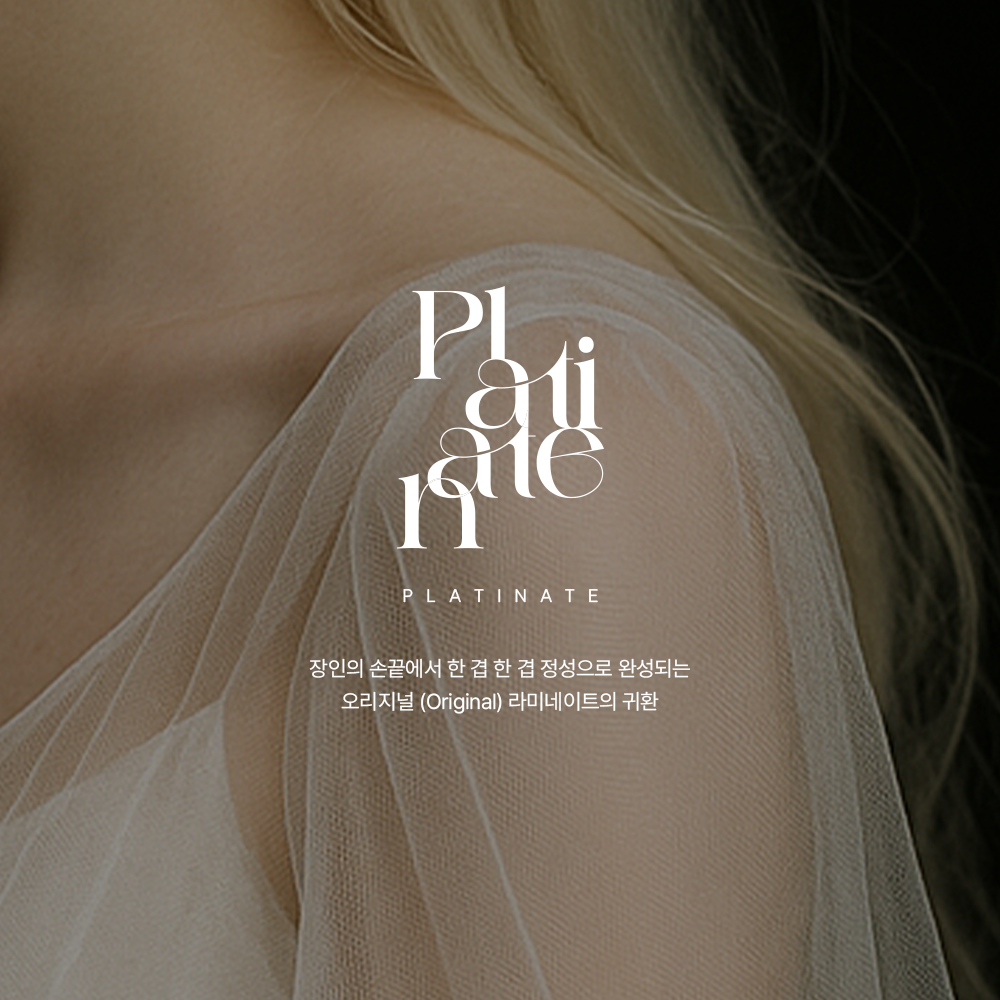
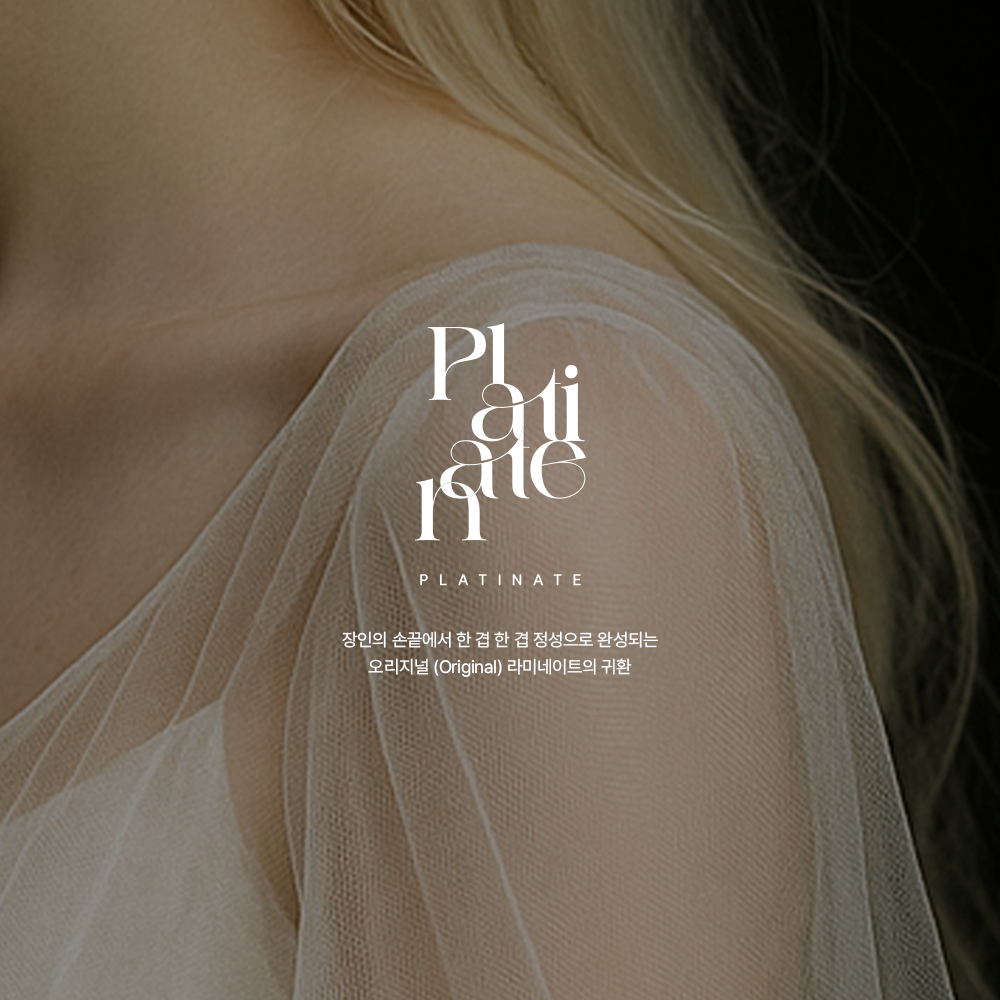
수정

Changed region(s): [[0.403, 0.279, 0.62, 0.558], [0.31, 0.558, 0.682, 0.713]]

diff --git a/index.html b/index.html
@@ -504,7 +504,7 @@
 
     <div class="column lg-6 stack-on-1100 section-header__secondary">
       <p class="desc">
-       
+       상세페이지 디자인
       </p>
     </div>
   </div> <!-- end section-header -->
@@ -548,7 +548,7 @@
         <article class="brick brick--double entry">
           <a href="#modal-dp-03" class="entry__link">
             <div class="entry__thumb">
-              <img src="images/folio/detail3/1.gif" alt="상세페이지 작업 03">
+              <img src="images/folio/detail3/7.gif" alt="상세페이지 작업 03">
             </div>
             <div class="entry__info">
               <div class="entry__cat"></div>
@@ -1024,10 +1024,13 @@
           <a href="#modal-dp-plati" class="entry__link">
             <div class="entry__thumb">
              
-              <img src="images/folio/plati/Plati.png" alt="상세페이지 작업 01">
+              <img src="images/folio/plati/plati3.png" alt="상세페이지 작업 01">
                <!-- <img src="images/folio/detail1.gif" alt="상세페이지 작업 01"> -->
-         
             </div>
+                  <div class="entry__info">
+                                            <div class="entry__cat">플래티네이트</div>
+                                            <h4 class="entry__title">로고 디자인</h4>
+                                        </div>
             <div class="entry__info">
               <div class="entry__cat"></div>
               <h4 class="entry__title"></h4>
@@ -1149,7 +1152,7 @@
                                 </ul>
                             </div>
                 
-                            <a href="https://blog.naver.com/PostView.naver?blogId=u0_20&Redirect=View&logNo=223396382522&categoryNo=27&isAfterWrite=true&isAfterUpdateOnly=true" class="modal-popup__details">Project link</a>
+                         
                         </div>
                     </div> <!-- end modal -->
                     <div id="modal-08" hidden>
@@ -1268,6 +1271,82 @@
 
                                     
             </section> <!-- end s-services -->
+
+    
+        </section>  <!-- end content -->
+
+          
+
+
+<!-- 전체 페이지 슬라이드 -->
+
+<!-- 전체페이지 슬라이드 닫힘 -->
+
+           
+
+      
+
+<!-- 기타디자인 -->
+
+<section id="other" class="s-folio2 target-section">
+
+    <div class="row section-header light-on-dark" data-num="">
+        <h3 class="column lg-12 section-header__pretitle text-pretitle">other Works</h3>
+        <div class="column lg stack-on-1100 section-header__primary">
+            <h2 class="title text-display-1">
+        
+            </h2>
+           
+        </div>
+      
+    </div> <!-- end section-header -->
+
+    <div id="bricks" class="row bricks">
+        <div class="column lg-12 masonry">
+            <div class="bricks-wrapper">
+
+                <article class="brick2 brick--double entry">
+                    <div class="entry__link2">
+                        <div class="entry__thumb">
+                            <img src="images/folio/gundam.png" alt="">
+                        </div>
+                        <div class="entry__info">
+                            <div class="entry__cat">건담베이스</div>
+                            <h4 class="entry__title">POP디자인</h4>
+                        </div>
+                    </div>
+                </article> <!-- entry -->
+               
+                <article class="brick2 brick--double entry">
+                    <div class="entry__link2">
+                        <div class="entry__thumb">
+                            <img src="images/folio/wabbler.png" alt="">
+                        </div>
+                        <div class="entry__info">
+                            <div class="entry__cat">건담베이스</div>
+                            <h4 class="entry__title">와블러 디자인</h4>
+                        </div>
+                    </div>
+                </article> <!-- entry -->
+                <article class="brick2 brick--double entry">
+                    <div class="entry__link2">
+                        <div class="entry__thumb">
+                            <img src="images/folio/flex.png" alt="">
+                        </div>
+                        <div class="entry__info">
+                            <div class="entry__cat">이벤트 프로모션</div>
+                            <h4 class="entry__title">개인 작업물</h4>
+                        </div>
+                    </div>
+                </article> <!-- entry -->
+               
+
+
+            </div> <!-- end bricks-wrapper -->
+            
+        </div> <!-- end masonry -->
+    </div> <!-- end bricks -->
+    </section>
 
             <section id="businesscard" class="s-testimonials target-section">
 
@@ -1451,81 +1530,6 @@
                 </div> <!-- end s-testimonials__content -->
     
             </section> <!-- end testimonials -->
-    
-        </section>  <!-- end content -->
-
-          
-
-
-<!-- 전체 페이지 슬라이드 -->
-
-<!-- 전체페이지 슬라이드 닫힘 -->
-
-           
-
-      
-
-<!-- 기타디자인 -->
-
-<section id="other" class="s-folio2 target-section">
-
-    <div class="row section-header light-on-dark" data-num="">
-        <h3 class="column lg-12 section-header__pretitle text-pretitle">other Works</h3>
-        <div class="column lg stack-on-1100 section-header__primary">
-            <h2 class="title text-display-1">
-        
-            </h2>
-           
-        </div>
-      
-    </div> <!-- end section-header -->
-
-    <div id="bricks" class="row bricks">
-        <div class="column lg-12 masonry">
-            <div class="bricks-wrapper">
-
-                <article class="brick2 brick--double entry">
-                    <div class="entry__link2">
-                        <div class="entry__thumb">
-                            <img src="images/folio/gundam.png" alt="">
-                        </div>
-                        <div class="entry__info">
-                            <div class="entry__cat">건담베이스</div>
-                            <h4 class="entry__title">POP디자인</h4>
-                        </div>
-                    </div>
-                </article> <!-- entry -->
-               
-                <article class="brick2 brick--double entry">
-                    <div class="entry__link2">
-                        <div class="entry__thumb">
-                            <img src="images/folio/wabbler.png" alt="">
-                        </div>
-                        <div class="entry__info">
-                            <div class="entry__cat">건담베이스</div>
-                            <h4 class="entry__title">와블러 디자인</h4>
-                        </div>
-                    </div>
-                </article> <!-- entry -->
-                <article class="brick2 brick--double entry">
-                    <div class="entry__link2">
-                        <div class="entry__thumb">
-                            <img src="images/folio/flex.png" alt="">
-                        </div>
-                        <div class="entry__info">
-                            <div class="entry__cat">이벤트 프로모션</div>
-                            <h4 class="entry__title">개인 작업물</h4>
-                        </div>
-                    </div>
-                </article> <!-- entry -->
-               
-
-
-            </div> <!-- end bricks-wrapper -->
-            
-        </div> <!-- end masonry -->
-    </div> <!-- end bricks -->
-    </section>
  <!-- testimonials
             ----------------------------------------------- -->
             <section id="blog" class="s-testimonials">
